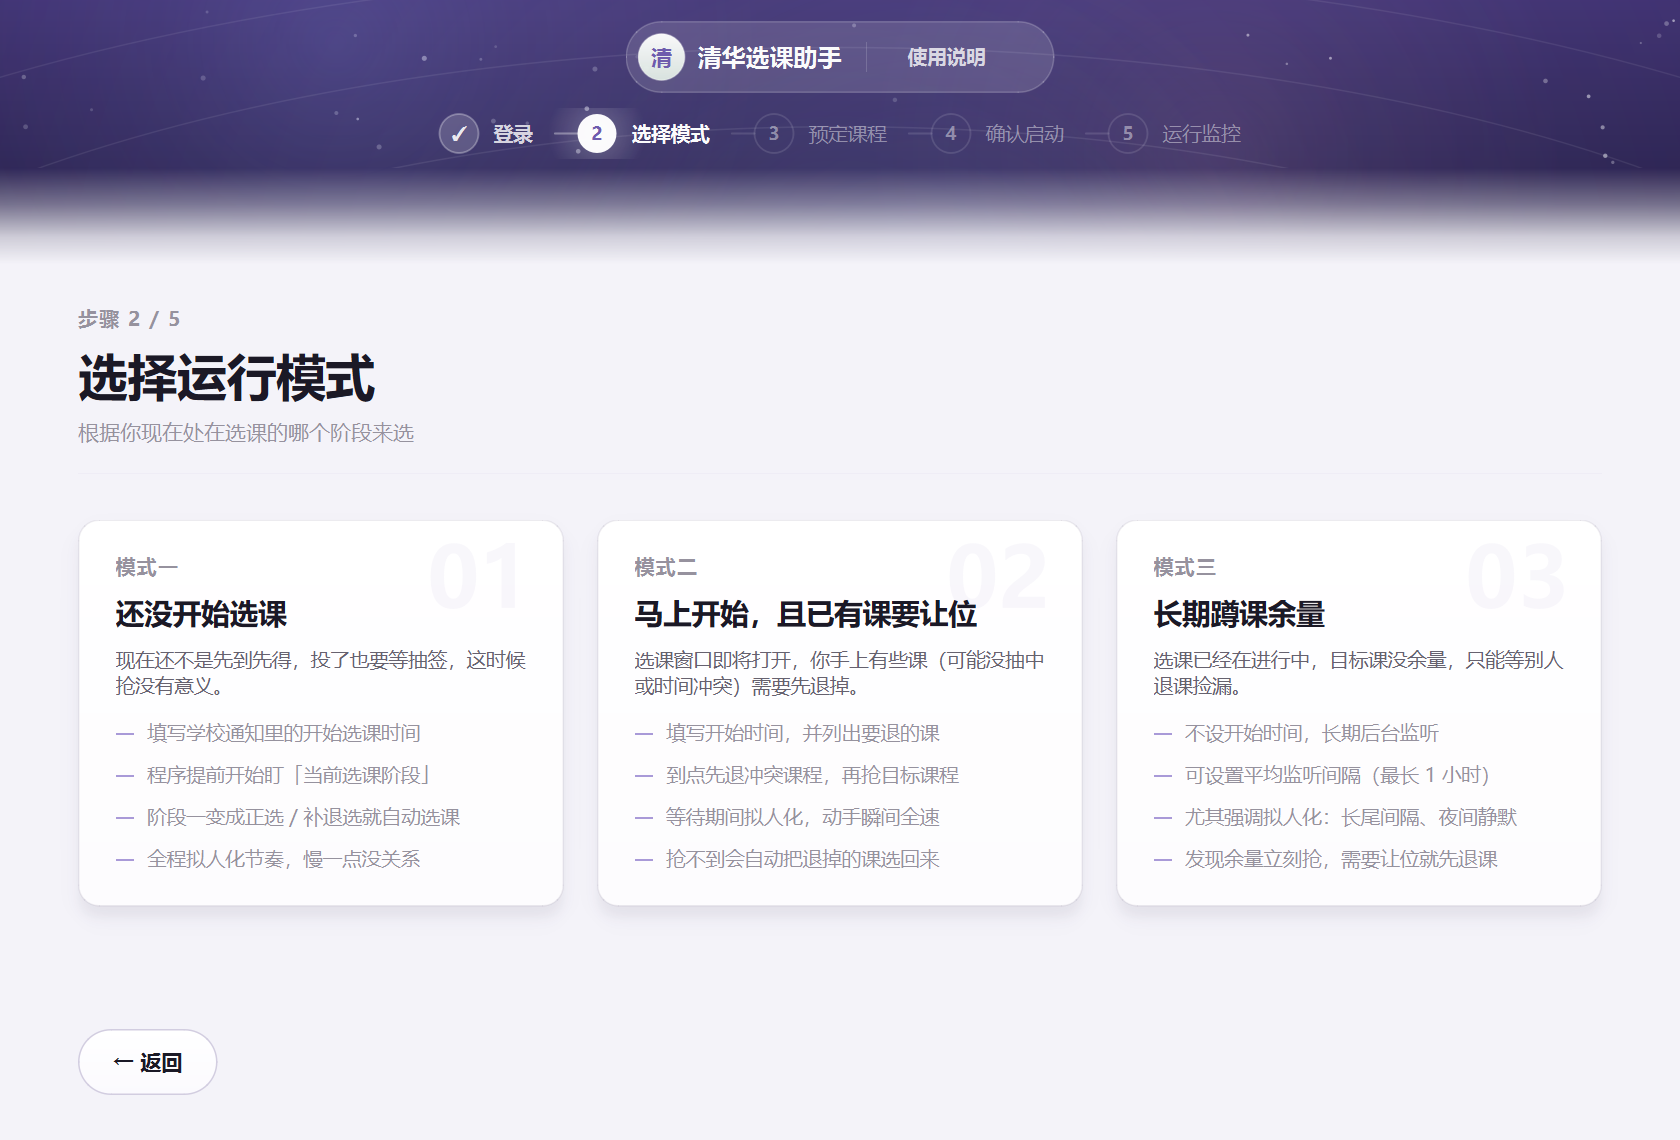
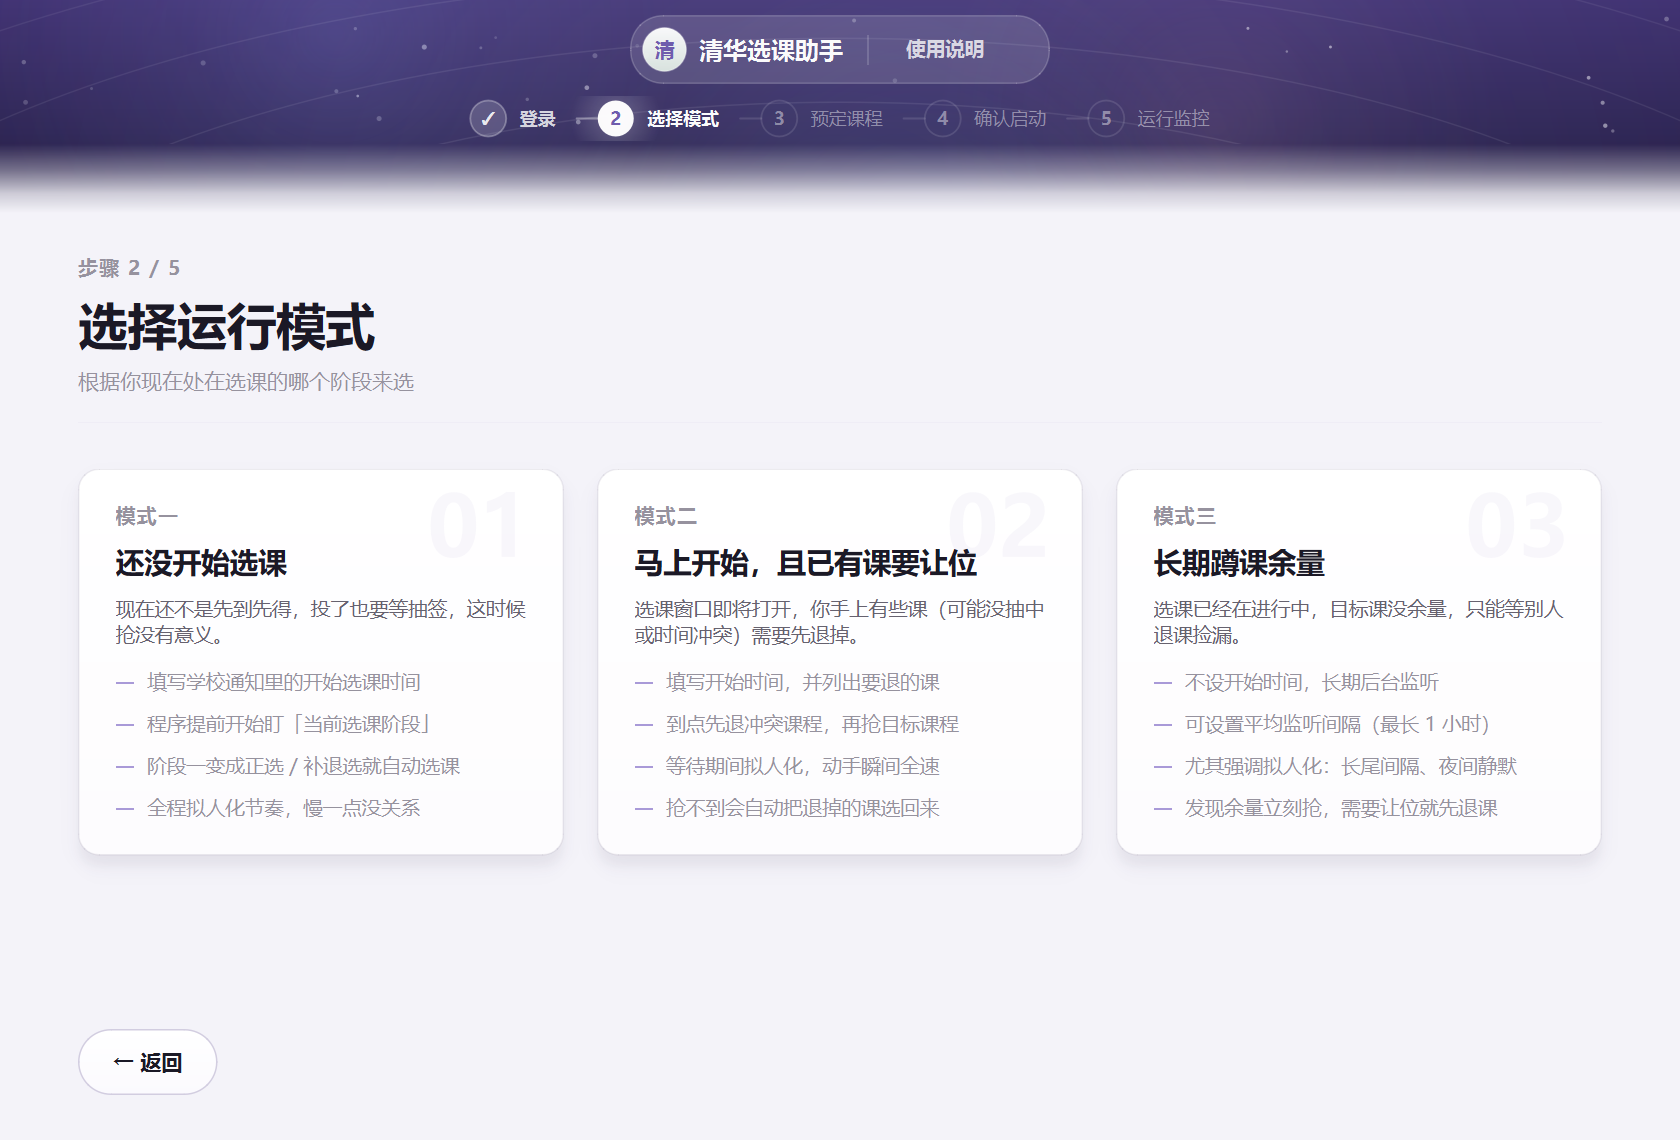
监控页补充返回入口，压缩顶部带子高度
- 监控页新增「返回设置」：停止或跑完之后可回到设置页重新运行
- 运行中只显示「停止」，收尾时禁用，结束后切换为「返回设置」
- 顶部天幕带由 176px 压到 142px（导航胶囊、步骤导轨、化开区同步收窄）

diff --git a/xk_app/app/gui/widgets.py b/xk_app/app/gui/widgets.py
@@ -21,7 +21,7 @@ from PySide6.QtWidgets import (QFrame, QGraphicsDropShadowEffect, QHBoxLayout,
 
 from .backdrop import paint_sky
 from .motion import Aurora, CountUp
-from .theme import C, HERO_H, STEPS, shadow_spec
+from .theme import C, HERO_H, RAIL_H, STEPS, shadow_spec
 
 
 # ==========================================================================
@@ -187,8 +187,9 @@ class HeroBand(SkySurface):
     这里用程序生成的夜空（backdrop.paint_sky）充当那块「影像」。
     """
 
-    FADE = 64          # 底部化开进页面的像素高度。太短会在天幕下沿
-                       # 压出一条发亮的横带（深紫到浅底之间的落差不小）
+    FADE = 46          # 底部化开进页面的像素高度。太短会在天幕下沿
+                       # 压出一条发亮的横带（深紫到浅底之间的落差不小）；
+                       # 但也不能太长 —— 整条带子占的竖向空间是要还回去的。
 
     def __init__(self, parent=None):
         super().__init__(parent)
@@ -197,8 +198,8 @@ class HeroBand(SkySurface):
         self.setSizePolicy(QSizePolicy.Expanding, QSizePolicy.Fixed)
 
         v = QVBoxLayout(self)
-        v.setContentsMargins(28, 14, 28, 0)
-        v.setSpacing(10)
+        v.setContentsMargins(28, 10, 28, 0)
+        v.setSpacing(8)
 
         # 居中、贴合内容的玻璃胶囊（参考站的 nav 就是这样一条，不是通栏横条）
         self.nav = QFrame()
@@ -282,15 +283,15 @@ class StepRail(QWidget):
     这里整条导轨自绘，编号圆点和连接线才连得起来。
     """
 
-    NODE = 26
-    GAP = 10          # 圆点 → 文字
-    LINK = 30         # 文字 → 下一个圆点
+    NODE = 24
+    GAP = 9           # 圆点 → 文字
+    LINK = 28         # 文字 → 下一个圆点
     LINK_MIN = 12
 
     def __init__(self, parent=None):
         super().__init__(parent)
         self.current = 0
-        self.setFixedHeight(34)
+        self.setFixedHeight(RAIL_H)
         self.setSizePolicy(QSizePolicy.Expanding, QSizePolicy.Fixed)
 
     def set_current(self, index: int):
@@ -313,7 +314,7 @@ class StepRail(QWidget):
         p.setRenderHint(QPainter.Antialiasing, True)
         p.setRenderHint(QPainter.TextAntialiasing, True)
 
-        f_lab = ui_font(13, QFont.DemiBold)
+        f_lab = ui_font(12.5, QFont.DemiBold)
         p.setFont(f_lab)
         fm = p.fontMetrics()
         widths, link, total = self._layout(fm)
@@ -362,7 +363,7 @@ class StepRail(QWidget):
             # 圆点里的字 / 勾
             if st == "done":
                 p.setPen(QColor(255, 255, 255, 220))
-                p.setFont(ui_font(13, QFont.Bold))
+                p.setFont(ui_font(12.5, QFont.Bold))
                 p.drawText(QRectF(nx - r, cy - r, r * 2, r * 2),
                            Qt.AlignCenter, "✓")
                 p.setFont(f_lab)
@@ -382,7 +383,7 @@ class StepRail(QWidget):
                 col, weight = QColor(255, 255, 255, 200), QFont.DemiBold
             else:
                 col, weight = QColor(255, 255, 255, 108), QFont.Normal
-            p.setFont(ui_font(13, weight))
+            p.setFont(ui_font(12.5, weight))
             p.setPen(col)
             p.drawText(QRectF(tx, 0, widths[i] - self.NODE - self.GAP, h),
                        Qt.AlignVCenter | Qt.AlignLeft, STEPS[i])

diff --git a/xk_app/app/gui/pages.py b/xk_app/app/gui/pages.py
@@ -1092,6 +1092,13 @@ class MonitorPage(QWidget):
         self.lb_state.setObjectName("BigState")
         head.addWidget(self.lb_state)
         head.addStretch(1)
+        # 停止 / 跑完之后得能回得去。以前这一页没有任何返回入口 ——
+        # 点完「停止」就卡在这儿，只能关掉整个程序重开。
+        self.btn_back = QPushButton("← 返回设置")
+        self.btn_back.setCursor(Qt.PointingHandCursor)
+        self.btn_back.clicked.connect(self.restart.emit)
+        self.btn_back.setVisible(False)
+        head.addWidget(self.btn_back)
         self.btn_logs = QPushButton("打开日志")
         self.btn_logs.clicked.connect(self.open_logs.emit)
         head.addWidget(self.btn_logs)
@@ -1180,19 +1187,29 @@ class MonitorPage(QWidget):
             h, m, s = secs // 3600, (secs % 3600) // 60, secs % 60
             self.st_run.set(f"{h:02d}:{m:02d}:{s:02d}")
 
+    # 「还在跑」的几个状态：这时不给返回入口，避免用户在抢课中途切走。
+    # stopping 也算在跑 —— 正在收尾时不该跳出「返回设置」。
+    RUNNING_STATES = ("preparing", "waiting", "monitoring", "acting", "stopping")
+
     def set_state(self, state, title, message=""):
         colors = {
             "preparing": C["primary"], "waiting": C["warn"],
             "monitoring": C["accent"], "acting": C["primary"],
             "success": C["accent"], "stopped": C["text_faint"],
-            "error": C["danger"],
+            "stopping": C["text_faint"], "error": C["danger"],
         }
         self.dot.set_color(colors.get(state, C["text_faint"]))
         # 只有「真的在跑」的状态才让光晕呼吸；静止状态不分散注意力
+        running = state in self.RUNNING_STATES
         self.dot.set_breathing(state in ("monitoring", "acting"))
         self.lb_state.setText(title)
         if message:
             self.lb_msg.setText(message)
+
+        # 停下来之后才给「返回设置」；跑着的时候只留「停止」
+        self.btn_back.setVisible(not running)
+        self.btn_stop.setVisible(running)
+        self.btn_stop.setEnabled(state != "stopping")
 
     def update_status(self, s: dict):
         self._last_status = s

diff --git a/xk_app/app/gui/main_window.py b/xk_app/app/gui/main_window.py
@@ -57,7 +57,7 @@ class MainWindow(QMainWindow):
         self.band = HeroBand()
         nr = self.band.nav_row
 
-        nr.addWidget(LogoMark(32, "清", dark=True))
+        nr.addWidget(LogoMark(30, "清", dark=True))
 
         logo = QLabel(APP_DISPLAY_NAME)
         logo.setObjectName("Wordmark")
@@ -162,6 +162,8 @@ class MainWindow(QMainWindow):
         self.page_monitor.stop.connect(self.on_stop)
         self.page_monitor.open_logs.connect(self.on_open_logs)
         self.page_monitor.export_diag.connect(self.on_export_diag)
+        # 停止 / 结束之后回到「预定课程」，可以直接改设置再跑一次
+        self.page_monitor.restart.connect(self.on_restart)
 
     # 每页一种天幕「心情」：五页共用同一张背景的话，翻过去几乎没有
     # 「换了个地方」的感觉。索引 = 页面索引。
@@ -503,7 +505,17 @@ class MainWindow(QMainWindow):
                                 "确定要停止吗？停止后就不会再帮你盯着了。") == QMessageBox.Yes:
             if self.core:
                 self.core.do_stop()
-            self.page_monitor.set_state("stopped", "正在停止…", "等待当前动作结束")
+            self.page_monitor.set_state("stopping", "正在停止…", "等待当前动作结束")
+
+    def on_restart(self):
+        """从监控页返回设置页。
+
+        监控页以前没有任何返回入口：点完「停止」就卡在那一页，
+        只能关掉整个程序重开。核心线程是常驻的（只在整个程序退出时
+        才结束），所以改完设置直接再点「开始运行」就能重跑。
+        """
+        log.info("从监控页返回设置页。")
+        self.goto(2)
 
     def on_core_finished(self, reason: str):
         titles = {"success": "已完成", "stopped": "已停止",

diff --git a/xk_app/app/gui/theme.py b/xk_app/app/gui/theme.py
@@ -92,9 +92,12 @@ R_IN = 11
 R_SM = 8
 
 # ---- 高度 -----------------------------------------------------------------
-HERO_H = 112        # 顶部天幕（不含底部化开区）
-NAV_H = 48
-RAIL_H = 32
+# 顶部天幕带整条（HERO_H + HeroBand.FADE）压到 142px 左右。
+# 之前是 112+64=176 —— 在 760 高的窗口里占了近四分之一，
+# 「预定课程」这类要操作的页面会明显感觉内容被顶到下面去了。
+HERO_H = 96         # 顶部天幕（不含底部化开区）
+NAV_H = 44
+RAIL_H = 30
 
 # ---- 动效时长（毫秒）------------------------------------------------------
 D_PAGE = 340        # 页面切换
@@ -157,8 +160,8 @@ QLabel#NavMeta {{
 QPushButton#NavGhost {{
     background: transparent; border: 1px solid transparent;
     color: rgba(255, 255, 255, 76%);
-    font-size: 13px; font-weight: 600;
-    padding: 5px 16px; min-height: 16px; border-radius: 14px;
+    font-size: 12.5px; font-weight: 600;
+    padding: 4px 14px; min-height: 16px; border-radius: 13px;
 }}
 QPushButton#NavGhost:hover {{
     background: rgba(255, 255, 255, 14%);
